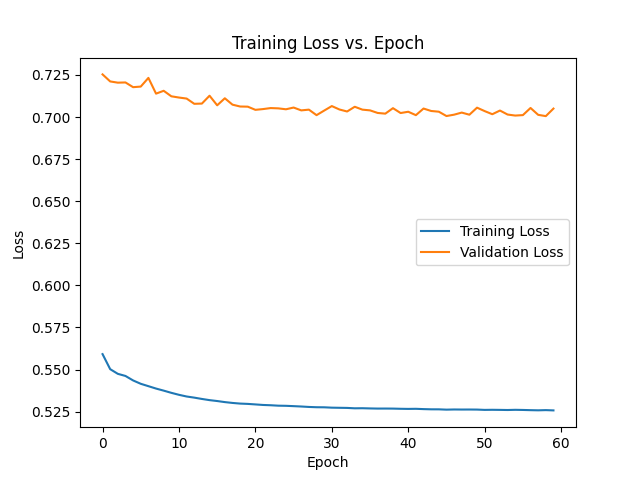
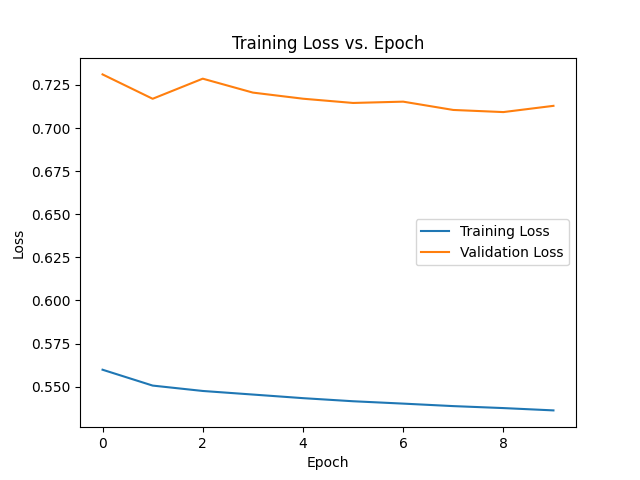
+ added metric calc to MLP_sklearn.py (prec,rec,f1,auc)

diff --git a/models/Original_MLP/First_MLP.py b/models/Original_MLP/First_MLP.py
@@ -209,7 +209,7 @@ y_test = y_test.to(device)
 
 #define model
 print(X_train.size())
-model = MLPClassifier(X_train.size())
+model = MLPClassifier(X_train.size()).to(device)
 
 # Define loss function and optimizer (same as TensorFlow example)
 loss_fn = nn.BCEWithLogitsLoss()   # alternative #BCELoss(weights=weights)#nn.MSELoss()
@@ -230,7 +230,7 @@ def calculate_accuracy(output, labels):
 train_losses = []
 val_losses = []
 val_accs = []
-for epoch in range(60):  # Adjust epochs as needed
+for epoch in range(10):  # Adjust epochs as needed
     epoch_train_loss = 0.0
     epoch_val_loss = 0.0
 
@@ -264,7 +264,7 @@ for epoch in range(60):  # Adjust epochs as needed
         epoch_val_loss = val_loss.item()
         val_losses.append(epoch_val_loss)
         val_accs.append(epoch_val_acc)
-        print(f"Epoch [{epoch + 1}/60], Training Loss: {avg_epoch_train_loss:.4f}, Validation Loss: {epoch_val_loss:.4f}, Validation Accuracy: {epoch_val_acc:.4f}")
+        print(f"Epoch [{epoch + 1}/10], Training Loss: {avg_epoch_train_loss:.4f}, Validation Loss: {epoch_val_loss:.4f}, Validation Accuracy: {epoch_val_acc:.4f}")
 
 print("######TRAINING DONE######")
 
@@ -301,3 +301,40 @@ cm_display = metrics.ConfusionMatrixDisplay(confusion_matrix = confusion_matrix,
 cm_display.plot()
 plt.savefig("Confusion_Matrix.png")
 print("######CONFUSION MATRIX PLOT DONE######")
+
+# Extract TN, FP, TP values
+TN = confusion_matrix[0, 0]  # True Negatives
+FP = confusion_matrix[0, 1]  # False Positives
+FN = confusion_matrix[1, 0]  # False Negatives
+TP = confusion_matrix[1, 1]  # True Positives
+
+# Print the results
+print("True Negatives (TN):", TN)
+print("False Positives (FP):", FP)
+print("False Negatives (FN):", FN)
+print("True Positives (TP):", TP)
+
+recall = TP/(TP+FN)
+precision = TP/(TP+FP)
+
+f1_macro = 2*(precision*recall)/(precision+recall)
+
+print("Recall:", recall)
+print("precision:", precision)
+print("F1-Macro:", f1_macro)
+
+
+# Precision
+precision = metrics.precision_score(true_labels, predictions)
+# Recall
+recall = metrics.recall_score(true_labels, predictions)
+# F1-Score
+f1 = metrics.f1_score(true_labels, predictions)
+# ROC Curve and AUC
+fpr, tpr, thresholds = metrics.roc_curve(true_labels, predictions)
+roc_auc = metrics.auc(fpr, tpr)
+
+print("Precision:", precision)
+print("Recall:", recall)
+print("F1-Score:", f1)
+print("ROC AUC:", roc_auc)
